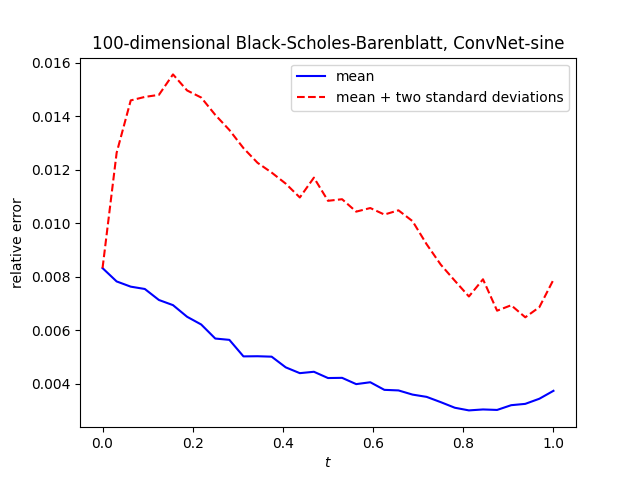
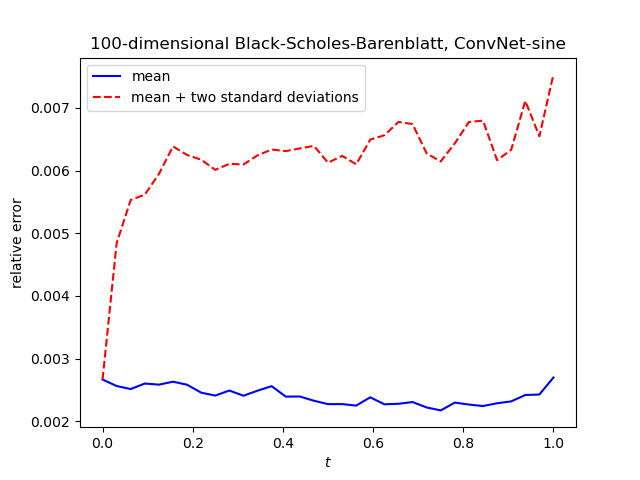
Implement RK networks

diff --git a/Models.py b/Models.py
@@ -12,8 +12,6 @@ class Sine(nn.Module):
         return torch.sin(x)
     
 
-
-
 class ConvNet(nn.Module):
 
     def __init__(self, layers, activation):
@@ -55,6 +53,110 @@ class ConvNet(nn.Module):
         out = out.view((100, 8))
         out = self.output(out)
 
+        return out
+    
+class RK4_Classic_block(nn.Module):
+
+    def __init__(self, input_size, activation):
+        super(RK4_Classic_block, self).__init__()
+
+        self.layer1 = nn.Linear(in_features=input_size, out_features=input_size)
+        self.layer2 = nn.Linear(in_features=input_size, out_features=input_size)
+        self.layer3 = nn.Linear(in_features=input_size, out_features=input_size)
+        self.layer4 = nn.Linear(in_features=input_size, out_features=input_size)
+
+        self.activation = activation
+
+    def forward(self, x):
+
+        k1 = self.layer1(x)
+        k1 = self.activation(k1)
+
+        layer_2_input = x + k1 / 2
+        k2 = self.layer2(layer_2_input)
+        k2 = self.activation(k2)
+
+        layer_3_input = x + k2 / 2
+        k3 = self.layer3(layer_3_input)
+        k3 = self.activation(k3)
+
+        layer_4_input = x + k3
+        k4 = self.layer4(layer_4_input)
+        k4 = self.activation(k4)
+
+        return x + 1/6 * (k1 + 2 * k2 + 2 * k3 + k4)
+
+class RK4_Classic(nn.Module):
+    def __init__(self, input_size, output_size, intermediate_size, activation, num_levels):
+        super(RK4_Classic, self).__init__()
+        self.activation = activation
+
+        self.in_layer = nn.Linear(in_features=input_size, out_features=intermediate_size)
+        self.rk_layers = nn.ModuleList()
+        for _ in range(num_levels):
+            self.rk_layers.append(RK4_Classic_block(intermediate_size, activation))
+
+        self.out_layer = nn.Linear(in_features=intermediate_size, out_features=output_size)
+
+    def forward(self, x):
+        out = self.in_layer(x)
+        out = self.activation(out)
+        for layer in self.rk_layers:
+            out = layer(out)
+        out = self.out_layer(out)
+        
+        return out
+    
+class RK4_38_block(nn.Module):
+
+    def __init__(self, input_size, activation):
+        super(RK4_Classic_block, self).__init__()
+
+        self.layer1 = nn.Linear(in_features=input_size, out_features=input_size)
+        self.layer2 = nn.Linear(in_features=input_size, out_features=input_size)
+        self.layer3 = nn.Linear(in_features=input_size, out_features=input_size)
+        self.layer4 = nn.Linear(in_features=input_size, out_features=input_size)
+
+        self.activation = activation
+
+    def forward(self, x):
+
+        k1 = self.layer1(x)
+        k1 = self.activation(k1)
+
+        layer_2_input = x + k1 / 3
+        k2 = self.layer2(layer_2_input)
+        k2 = self.activation(k2)
+
+        layer_3_input = x - k1 / 3 + k2
+        k3 = self.layer3(layer_3_input)
+        k3 = self.activation(k3)
+
+        layer_4_input = x + k1 - k2 + k3
+        k4 = self.layer4(layer_4_input)
+        k4 = self.activation(k4)
+
+        return x + 1/8 * (k1 + 3 * k2 + 3 * k3 + k4)
+    
+class RK4_38(nn.Module):
+    def __init__(self, input_size, output_size, intermediate_size, activation, num_levels):
+        super(RK4_38, self).__init__()
+        self.activation = activation
+
+        self.in_layer = nn.Linear(in_features=input_size, out_features=intermediate_size)
+        self.rk_layers = nn.ModuleList()
+        for _ in range(num_levels):
+            self.rk_layers.append(RK4_38_block(intermediate_size, activation))
+
+        self.out_layer = nn.Linear(in_features=intermediate_size, out_features=output_size)
+
+    def forward(self, x):
+        out = self.in_layer(x)
+        out = self.activation(out)
+        for layer in self.rk_layers:
+            out = layer(out)
+        out = self.out_layer(out)
+        
         return out
 
 class Resnet(nn.Module):

diff --git a/FBSNNs.py b/FBSNNs.py
@@ -18,7 +18,9 @@ class FBSNN(ABC):
             torch.backends.cudnn.deterministic = True
 
         else:
-            self.device = torch.device("cpu")
+            # self.device = torch.device("cpu")
+            self.device = torch.device("mps")
+
 
         #  We set a random seed to ensure that your results are reproducible
         # torch.manual_seed(0)
@@ -57,6 +59,8 @@ class FBSNN(ABC):
             self.model = SDEnet(layers, activation=self.activation_function).to(self.device)
         elif self.mode == "ConvNet":
             self.model = ConvNet(layers, activation=self.activation_function).to(self.device)
+        elif self.mode == "RK4_Classic":
+            self.model = RK4_Classic(layers[0], layers[-1], layers[1], self.activation_function, 4).to(self.device)
 
         self.model.apply(self.weights_init)
 

diff --git a/BlackScholesBarenblatt100D.py b/BlackScholesBarenblatt100D.py
@@ -119,7 +119,9 @@ if __name__ == "__main__":
     N = 50  # number of time snapshots
     D = 100  # number of dimensions
 
-    layers = [D + 1] + 4 * [256] + [1]
+    # layers = [D + 1] + 4 * [256] + [1]
+    layers = [D + 1] + 4 * [64] + [1]
+
 
     Xi = np.array([1.0, 0.5] * int(D / 2))[None, :]
     T = 1.0
@@ -127,6 +129,8 @@ if __name__ == "__main__":
     "Available architectures"
     mode = "FC"  # FC, Resnet and NAIS-Net are available
     mode = "ConvNet"
+    # mode = "RK4_Classic"
+    mode = "Resnet"
     activation = "sine"  # sine and ReLU are available
     # activation = "ReLU"
     model = BlackScholesBarenblatt(Xi, T,
